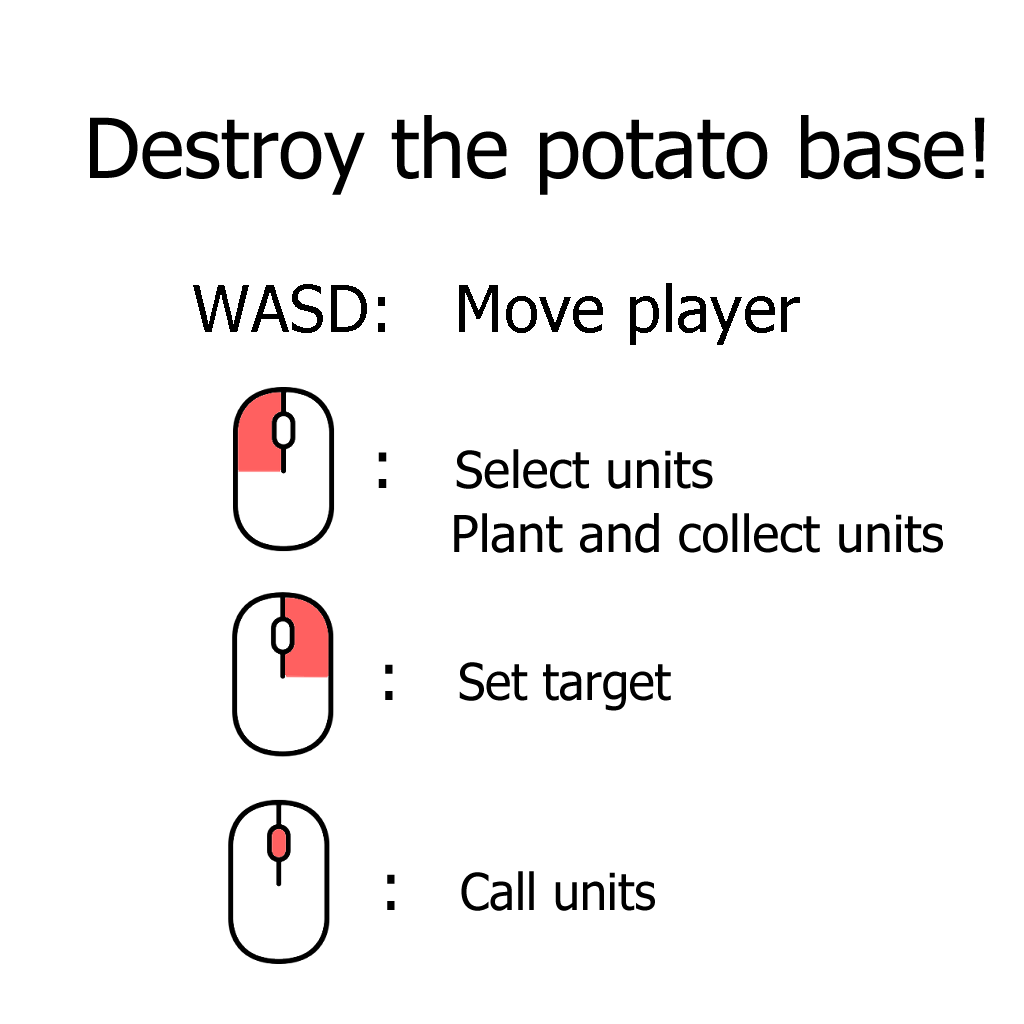
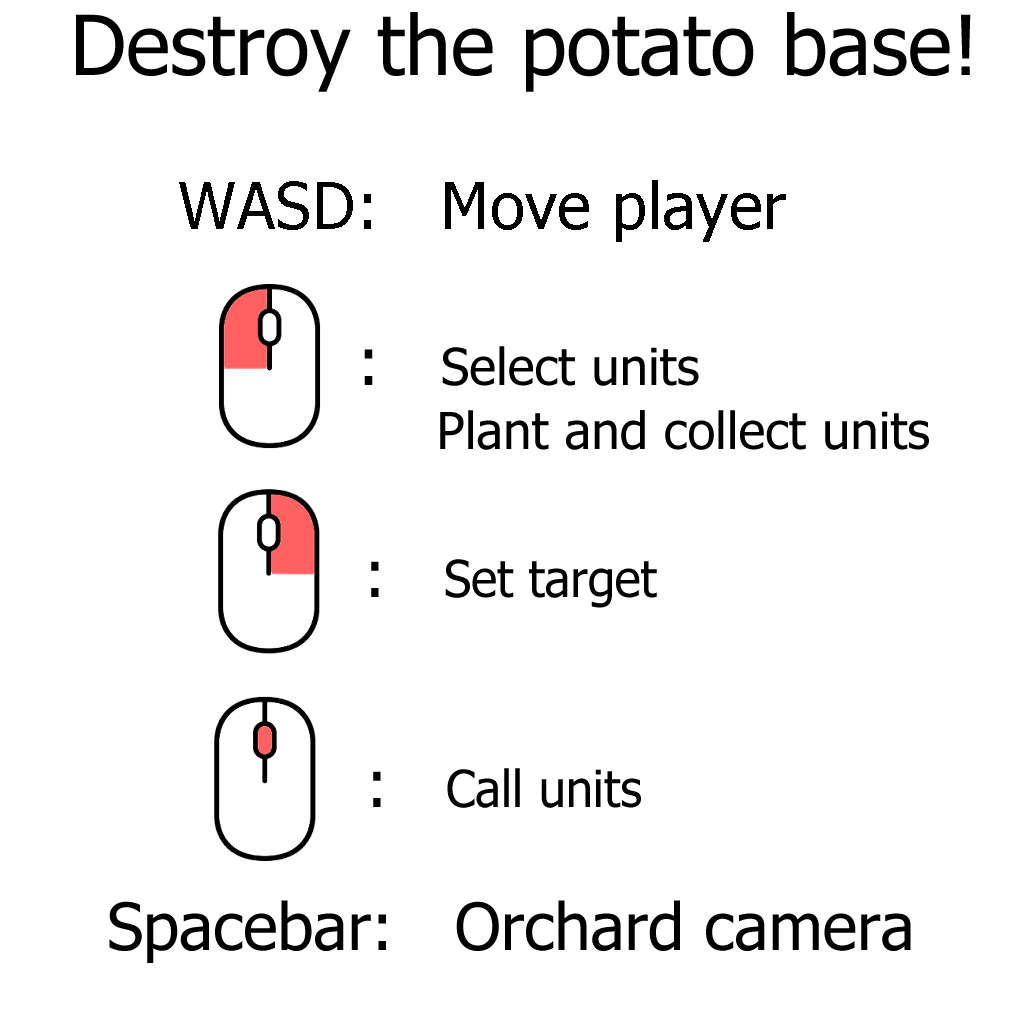
Fixed bug in static camera

diff --git a/Assets/Hortalizas/Player/CameraManager.cs b/Assets/Hortalizas/Player/CameraManager.cs
@@ -7,6 +7,8 @@ public class CameraManager : MonoBehaviour
     public Camera player_camera;
     public Camera static_camera;
 
+   public TurnipSelectionManager selectionManager;
+
     // Start is called before the first frame update
     void Start()
     {
@@ -34,6 +36,8 @@ public class CameraManager : MonoBehaviour
 
         player_camera.enabled = false;
         player_camera.gameObject.GetComponent<AudioListener>().enabled = false;
+
+        selectionManager.main = static_camera;
     }
 
     void ActivatePlayerCamera()
@@ -43,5 +47,8 @@ public class CameraManager : MonoBehaviour
 
         player_camera.enabled = true;
         player_camera.gameObject.GetComponent<AudioListener>().enabled = true;
+
+        selectionManager.main = player_camera;
+
     }
 }

diff --git a/Assets/Hortalizas/Turnips/TurnipBehaviour.cs b/Assets/Hortalizas/Turnips/TurnipBehaviour.cs
@@ -32,6 +32,8 @@ public class TurnipBehaviour : MonoBehaviour
     public bool selected = false;
     public GameObject deadParticles;
 
+    public GameObject seed;
+
     // Start is called before the first frame update
     void Start()
     {
@@ -120,6 +122,7 @@ public class TurnipBehaviour : MonoBehaviour
             Destroy(gameObject);
             GameObject p = Instantiate(deadParticles, gameObject.transform.position, gameObject.transform.rotation);
             Destroy(p, 3);
+            Instantiate(seed, gameObject.transform.position, gameObject.transform.rotation);
         }
 
         if (turnipState == TurnipState.FOLLOWING_PLAYER && collision.collider.CompareTag("Turnip"))

diff --git a/Assets/Hortalizas/Player/TurnipSelectionManager.cs b/Assets/Hortalizas/Player/TurnipSelectionManager.cs
@@ -5,7 +5,7 @@ using UnityEngine;
 public class TurnipSelectionManager : MonoBehaviour
 {
     List<GameObject> selectedTurnips;
-    Camera main;
+    public Camera main;
     public GameObject allTurnips;
     public LayerMask layerForPoint;
     public LayerMask layerForSquare;
